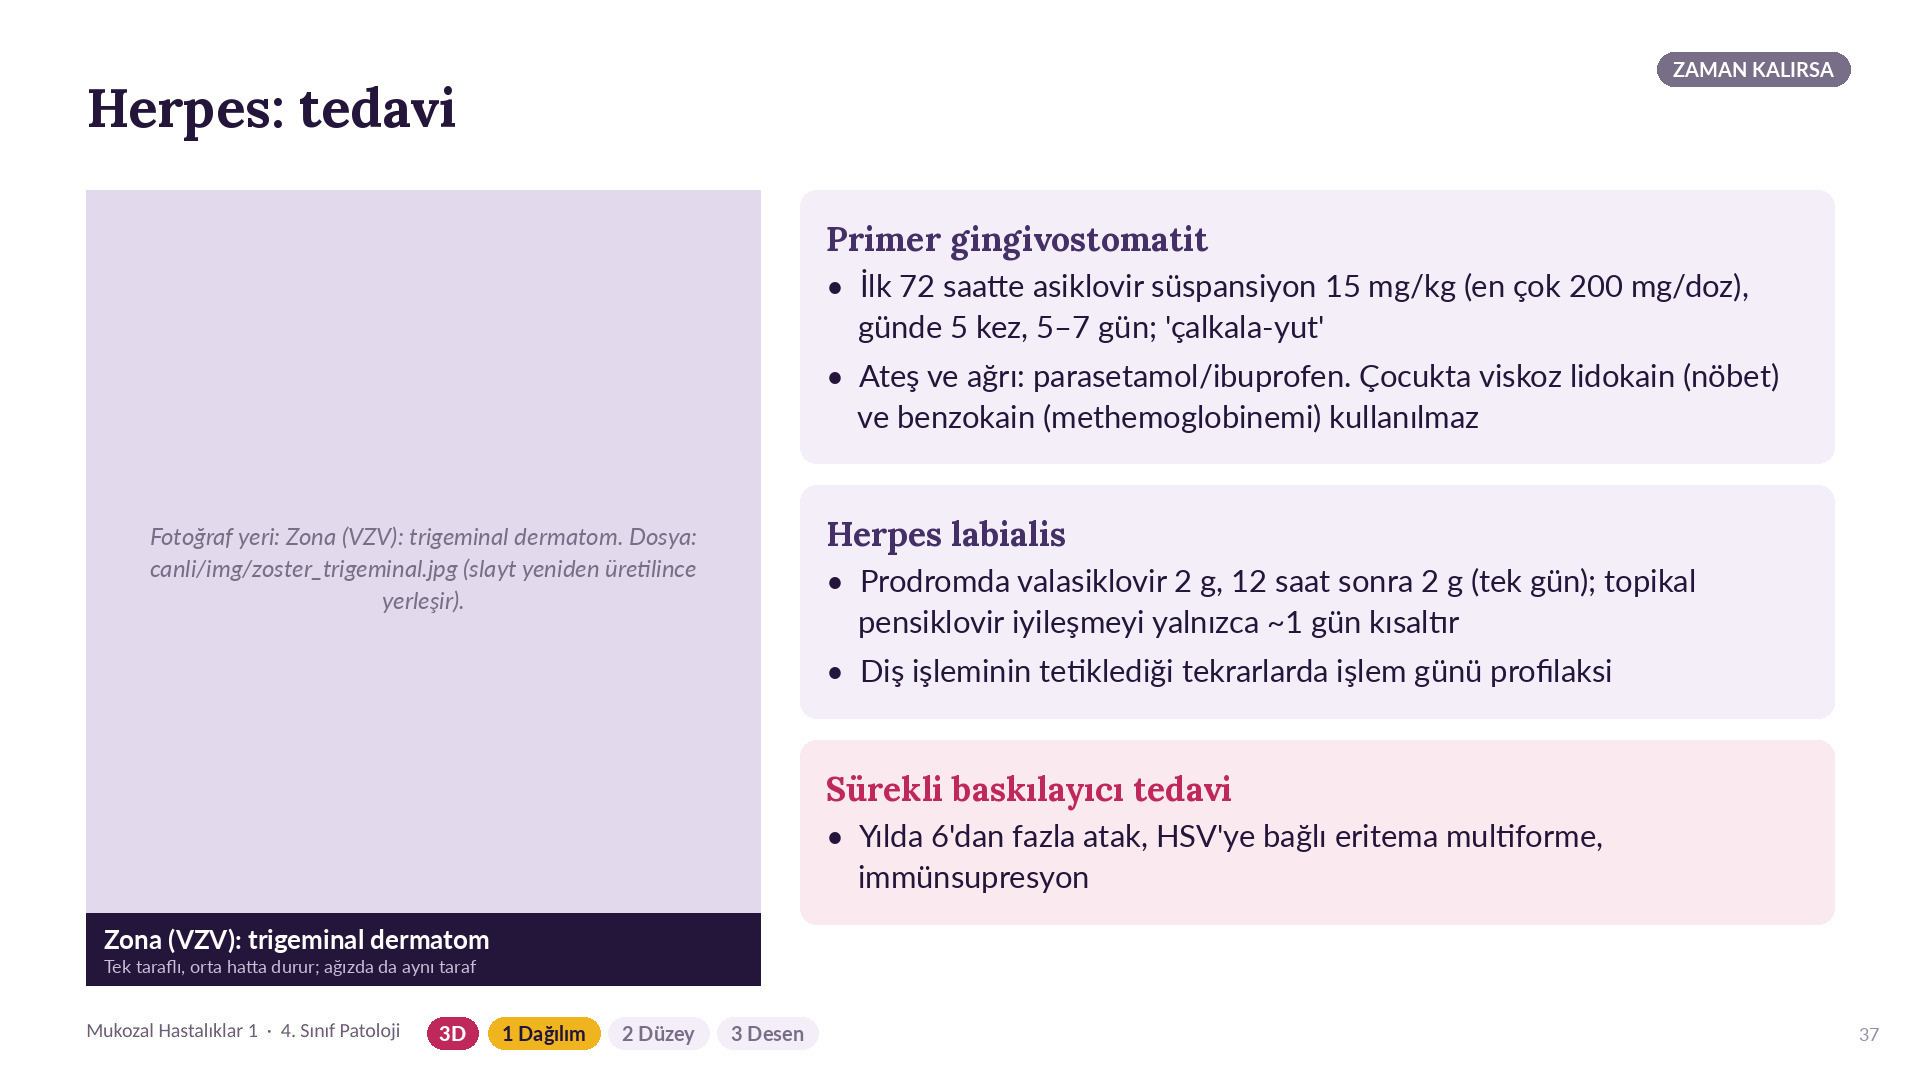
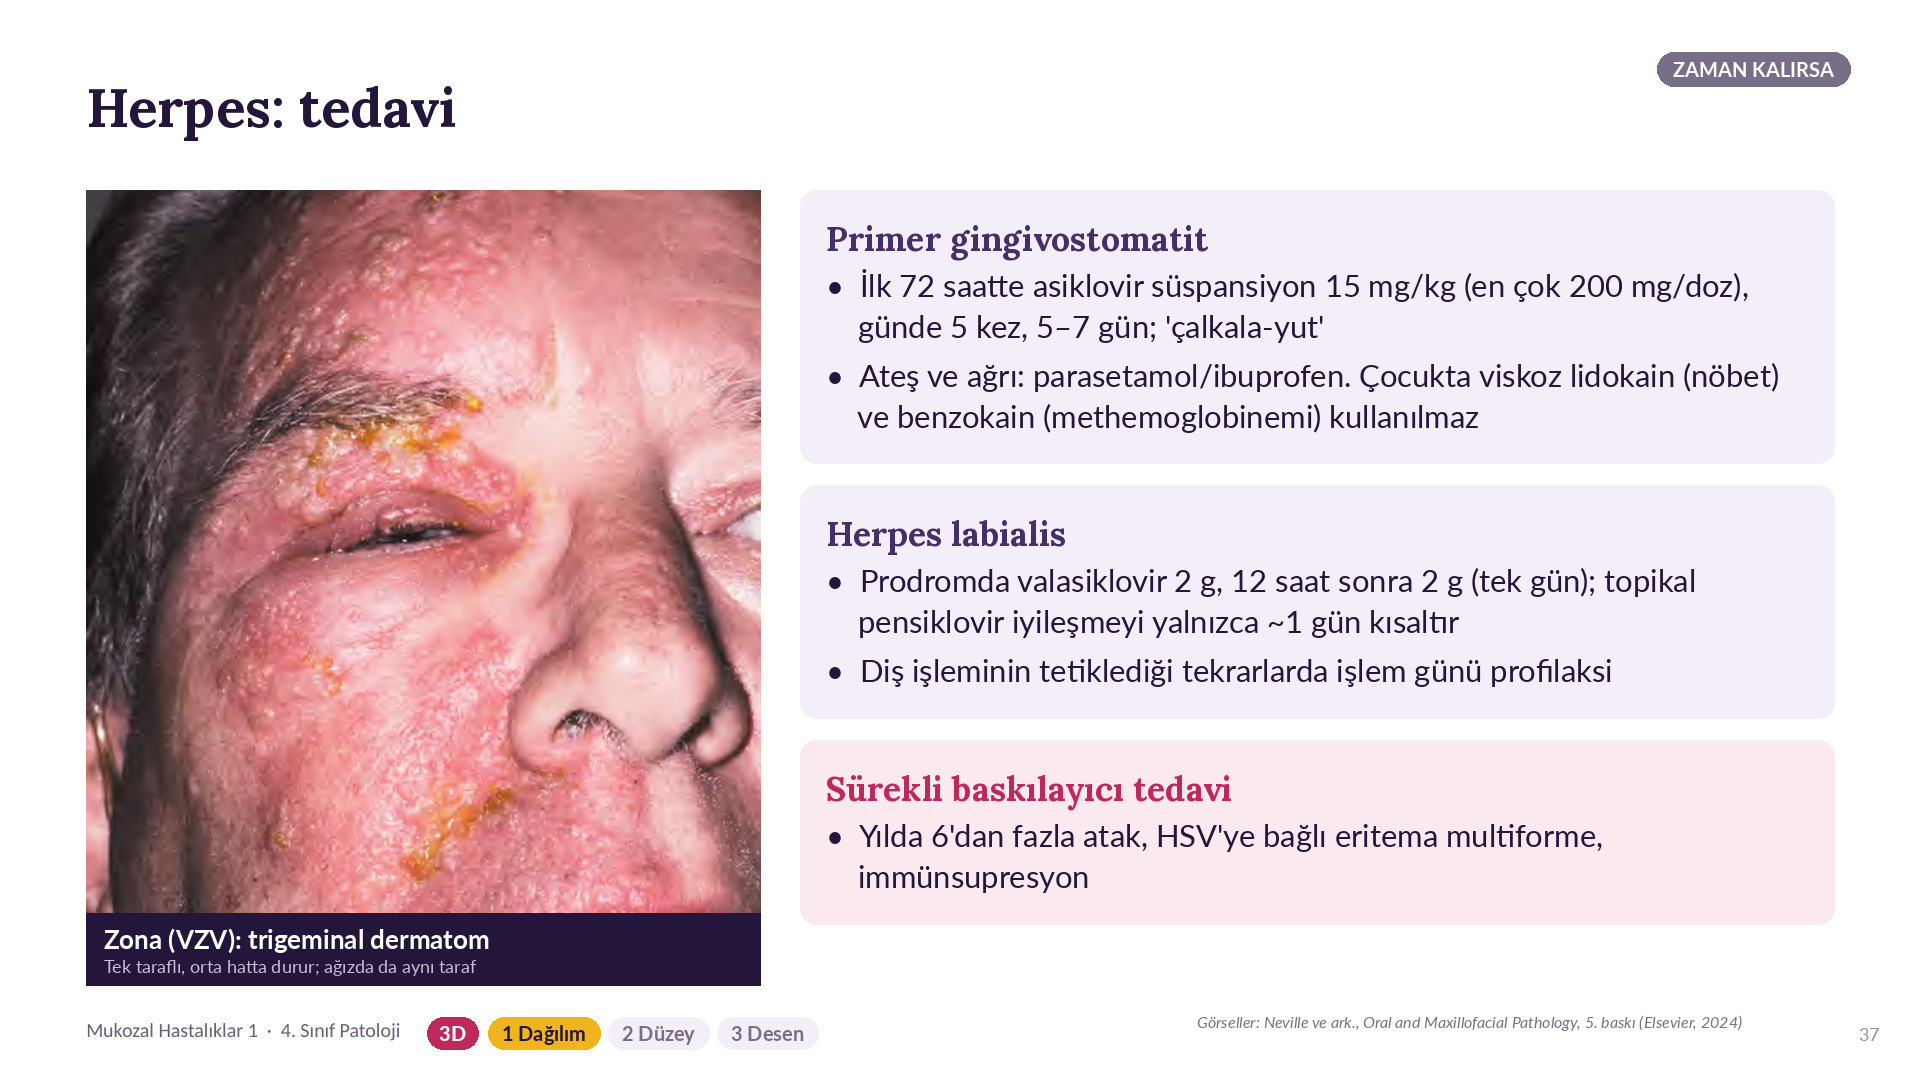
M1/M2: yer tutucu fotoğraf çerçeveleri dolduruldu
Zona, herpetik dolama, normal epitel, ağır displazi, Peutz-Jeghers ve
damakta peteşi çerçevelerine Neville 5 / Laskaris fotoğrafları kondu;
dosyalar canli/img altında build2.py'nin beklediği adlarla da duruyor.

Claude-Session: https://claude.ai/code/session_01H7eJwj2gDzGqHFEuRxu6dK

Changed region(s): [[0.0312, 0.1528, 0.4062, 0.8556]]

diff --git a/tools/slaytlar/yeni/yer_tutucu.py b/tools/slaytlar/yeni/yer_tutucu.py
@@ -1,0 +1,66 @@
+# -*- coding: utf-8 -*-
+"""Fills the empty photo frames left in the M1/M2 decks (build2.py placeholders).
+
+Each frame is found by its placeholder colour inside a search box, the book
+figure is cover-fitted into it, and the same picture is saved under the file
+name build2.py expects (canli/img/...), so a later rebuild keeps it.
+"""
+import json, os, re, sys
+import numpy as np
+from PIL import Image
+sys.path.insert(0, os.path.dirname(os.path.abspath(__file__)))
+from deck import CANLI
+from foto import F
+
+PH = np.array([226, 218, 236])
+VER = "5"
+# (lesson, slide title start, search box, figure, file name in canli/img)
+JOBS = [
+    ("M1", "(Zaman kalırsa) Herpes: tedavi", (60, 170, 800, 1000), ("n", "7.18"), "zoster_trigeminal.jpg"),
+    ("M1", "(Zaman kalırsa) Herpes bulaşır", (60, 170, 800, 1000), ("n", "7.9"), "herpetik_dolama.jpg"),
+    ("M2", "(Zaman kalırsa) Mikroskopta displazi", (60, 170, 960, 780), ("n", "16.102"), "displazi_normal.jpg"),
+    ("M2", "(Zaman kalırsa) Mikroskopta displazi", (960, 170, 1860, 780), ("n", "10.74"), "displazi_agir.jpg"),
+    ("M2", "(Zaman kalırsa) Dudakta çil gibi lekeler", (60, 170, 800, 1000), ("l", "28.16"), "peutz_jeghers.jpg"),
+    ("M2", "(Zaman kalırsa) Damakta peteşi", (60, 170, 800, 1000), ("n", "7.22"), "petesi_damak.jpg"),
+]
+
+
+def frame(img, search):
+    a = np.array(img.crop(search).convert("RGB")).astype(int)
+    m = np.abs(a - PH).sum(axis=2) < 10
+    rows = np.where(m.mean(axis=1) > 0.5)[0]
+    cols = np.where(m.mean(axis=0) > 0.5)[0]
+    if not len(rows):
+        return None
+    return (search[0] + cols[0], search[1] + rows[0], search[0] + cols[-1] + 1, search[1] + rows[-1] + 1)
+
+
+def cover(ph, w, h):
+    r = max(w / ph.width, h / ph.height)
+    ph = ph.resize((int(ph.width * r) + 1, int(ph.height * r) + 1), Image.LANCZOS)
+    x0 = (ph.width - w) // 2; y0 = (ph.height - h) // 2
+    return ph.crop((x0, y0, x0 + w, y0 + h))
+
+
+def main():
+    jsons = {}
+    for lid, title, search, fig, name in JOBS:
+        L = jsons.setdefault(lid, json.load(open(os.path.join(CANLI, "dersler", lid + ".json"), encoding="utf-8")))
+        s = next(x for x in L["slides"] if x["title"].startswith(title))
+        path = os.path.join(CANLI, s["img"].split("?")[0])
+        img = Image.open(path).convert("RGB")
+        box = frame(img, search)
+        src = Image.open(F(*fig)).convert("RGB")
+        src.save(os.path.join(CANLI, "img", name), quality=88)
+        if box is None:
+            print("zaten dolu:", lid, title, name); continue
+        img.paste(cover(src, box[2] - box[0], box[3] - box[1]), box[:2])
+        img.save(path, quality=92, subsampling=0)
+        s["img"] = re.sub(r"\?v=\w+", "?v=" + VER, s["img"])
+        print(lid, os.path.basename(path), name, box)
+    for lid, L in jsons.items():
+        json.dump(L, open(os.path.join(CANLI, "dersler", lid + ".json"), "w", encoding="utf-8"), ensure_ascii=False, indent=1)
+
+
+if __name__ == "__main__":
+    main()

diff --git a/README.md b/README.md
@@ -91,7 +91,7 @@ Canlı oturumlardaki sorular `canli/dersler/` altında JSON olarak durur, slaytl
 
 Ders JSON'undaki özel slayt alanları: `lobby` (katılım ekranı), `qopen` (soru açılır, slayt kalır), `q` (soru/dağılım), `board` + `top: 5` (ara liderlik, ilk 5), `cloud: {"q":"W11","from":"prev"}` (bir önceki oturumun kelime bulutu; M2 böyle açılır ve M1'in çıkış biletini cevaplar), `cta` (bitiş çağrısı). Soru bölgesi türleri: `rect`, `ellipse`, `ring` (halka: biyopsiyi lezyonun kenarından alma sorusu).
 
-Slaytlar `tools/slaytlar/build.py` + `build2.py` ile orijinal görsellerden yeniden üretilir (PIL; Lora ve Lato fontları; orijinal slaytlar ilk sürümden: `git show 2d6da82:canli/slaytlar/M1/01.jpg`). M1'de diş hekimi için yedi pratik slayt var (pemfigus hastası koltukta, pemfigoid tedavisi, SJS/TEN–karbamazepin, herpes tedavisi, herpes bulaşı, Behçet, mukozit önleme; `tools/slaytlar/build2.py` içinde `M1_PRACTICAL`). M2'de on ek slayt: beyaz/kırmızı mekanizmaları, kıllı lökoplaki–HIV sorusu, nikotinik stomatit ve ters sigara, dumansız tütün keratozu ve Maraş otu, Freud'un damağı ve alan kanserizasyonu (fotoğraf `canli/img/freud_protez.jpg`), Peutz-Jeghers, peteşi, nötropeni ve metamizol, yazarken üç uyarı (`M2_PRACTICAL`). Fotoğraf bekleyen çerçeveler: `canli/img/zoster_trigeminal.jpg` (trigeminal zona), `canli/img/herpetik_dolama.jpg` (herpetik dolama), `canli/img/peutz_jeghers.jpg` (Peutz-Jeghers), `canli/img/petesi_damak.jpg` (damakta peteşi). M2'deki "Mikroskopta displazi" slaytı iki fotoğraf bekler: `canli/img/displazi_normal.jpg` ve `canli/img/displazi_agir.jpg` (H&E kesit). Dosyalar konup slaytlar yeniden üretilince çerçevelere yerleşir; şimdilik çerçevelerde yer tutucu yazı var.
+Slaytlar `tools/slaytlar/build.py` + `build2.py` ile orijinal görsellerden yeniden üretilir (PIL; Lora ve Lato fontları; orijinal slaytlar ilk sürümden: `git show 2d6da82:canli/slaytlar/M1/01.jpg`). M1'de diş hekimi için yedi pratik slayt var (pemfigus hastası koltukta, pemfigoid tedavisi, SJS/TEN–karbamazepin, herpes tedavisi, herpes bulaşı, Behçet, mukozit önleme; `tools/slaytlar/build2.py` içinde `M1_PRACTICAL`). M2'de on ek slayt: beyaz/kırmızı mekanizmaları, kıllı lökoplaki–HIV sorusu, nikotinik stomatit ve ters sigara, dumansız tütün keratozu ve Maraş otu, Freud'un damağı ve alan kanserizasyonu (fotoğraf `canli/img/freud_protez.jpg`), Peutz-Jeghers, peteşi, nötropeni ve metamizol, yazarken üç uyarı (`M2_PRACTICAL`). Eskiden yer tutucu olan altı çerçeve (zona, herpetik dolama, Peutz-Jeghers, damakta peteşi, normal epitel ve ağır displazi) Neville 5 ve Laskaris fotoğraflarıyla dolduruldu (`tools/slaytlar/yeni/yer_tutucu.py`); aynı fotoğraflar `canli/img/` altında build2.py'nin beklediği adlarla duruyor.
 
 **M1 ve M2'ye ders sunumundaki eksik başlıklar eklendi ("Zaman kalırsa" bloğu, beş cümleden önce):** M1'e dokuz slayt: elementer lezyonlar, muayene bulguları (Nikolsky, paterji, Koebner, yama testi, bastırınca solma, silinme), enfeksiyon ipuçları (Koplik, kızıl, sifiliz, difteri, noma), granülomatöz hastalıklar, ilaç ve temas reaksiyonları, liken planus mikroskopisi, büllöz hastalıklar tablosu, pemfigus/pemfigoid akrabaları, deriden ağza (psoriazis, lupus, skleroderma, GVHD). M2'ye beş slayt: kalıtsal beyaz lezyonlar, Darier ve siğilli diskeratom, sendromlar (iki slayt), fissürlü dil, amiloidoz ve kıllı dil. Bilgiler Neville 5'e göre; ders sunumundan farklı olan yerler konuşma notlarında belirtildi. Eklemeler `tools/slaytlar/yeni/ek.py` ile yapılır (`ek_m1.py`, `ek_m2.py`); eklenen slaytlar JSON'da `"ek": true` taşır, betik yeniden çalışınca önceki eklemeleri kaldırıp sayfa numaralarını ve zaman damgalarını yeniden yazar.
 
